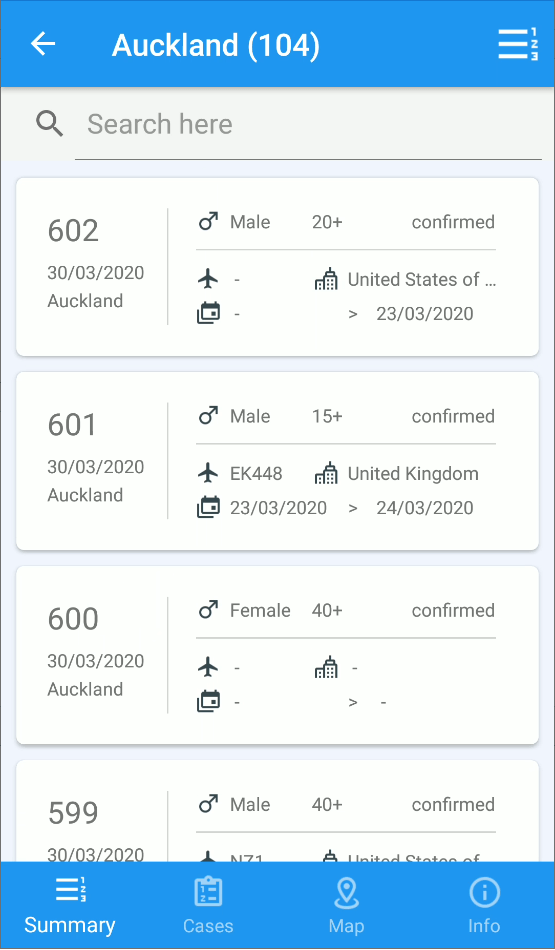
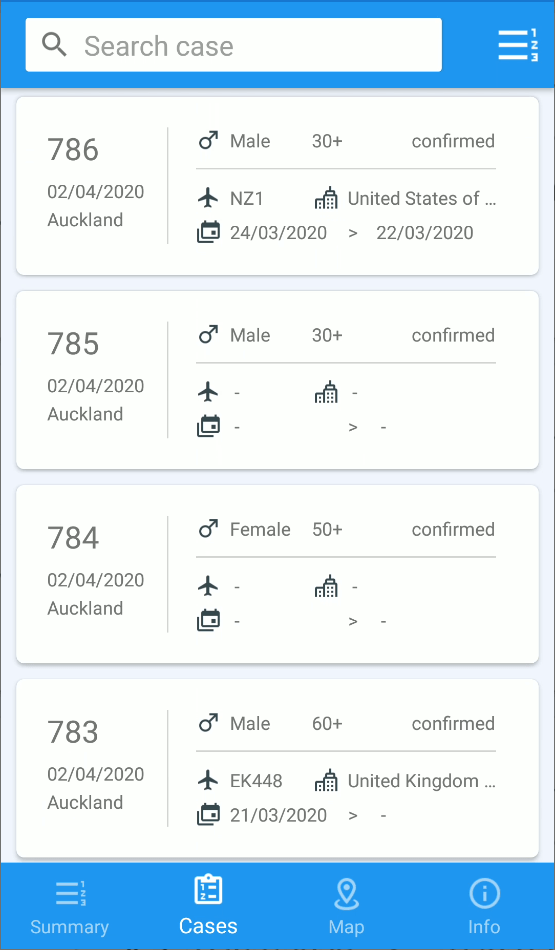
:camera_flash: Update screenshots.

Changed region(s): [[0.0306, 0.0, 0.9802, 1.0], [0.7351, 0.4274, 0.8883, 0.4579], [0.8883, 0.0305, 0.9802, 0.0611]]

diff --git a/README.md b/README.md
@@ -59,8 +59,9 @@ APK access from [VS App Center](https://tinyurl.com/covid19nzapp), or this url: 
 #### Refresh on April 2nd:
 
 - [ ] publish apk to store
+- [ ] iOS version publish
 - [ ] pinch to the picture
-- [ ] implement Shell features.
+- [ ] implement Shell features.(Search done, navigation pending)
 
 #### Refresh on April fools:
 
